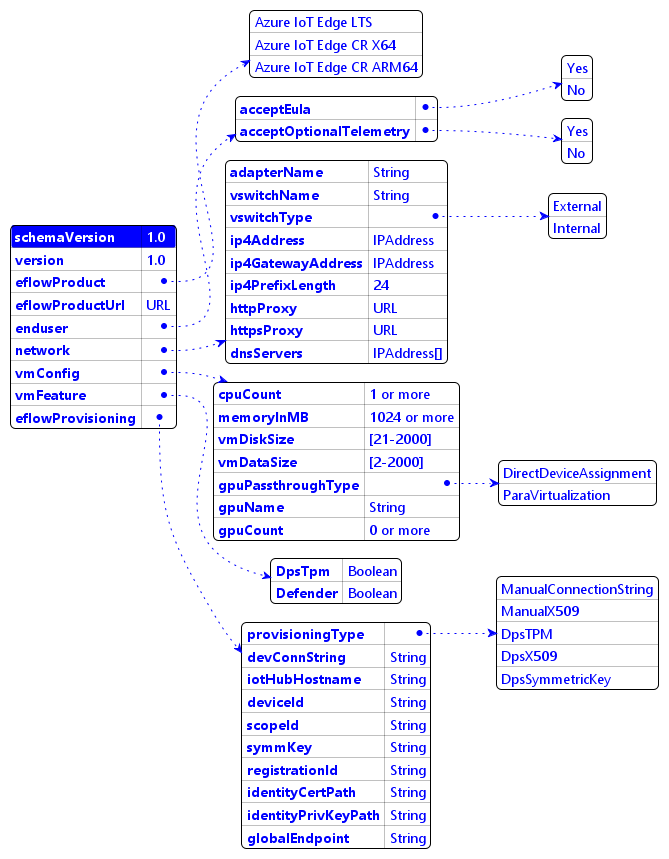
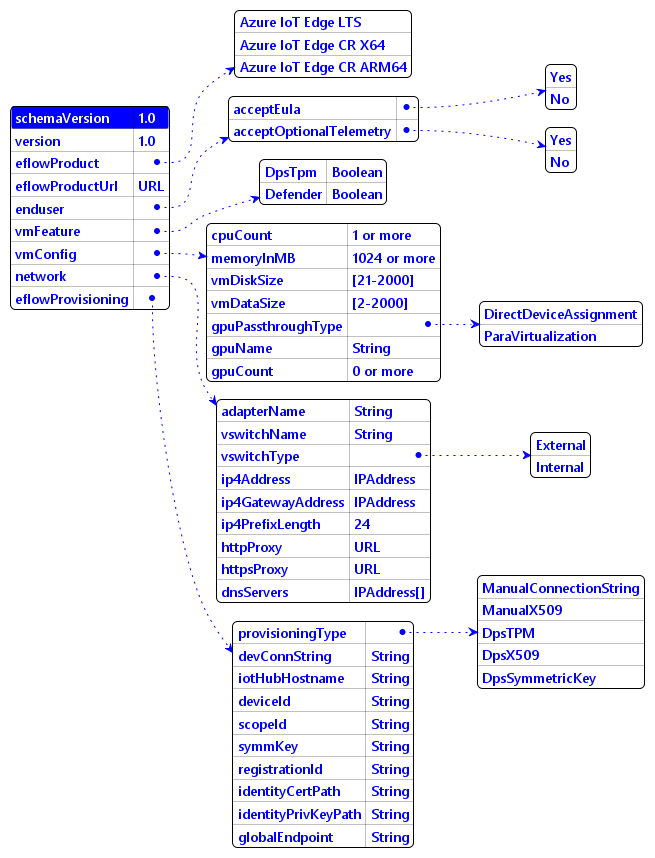
Load default config, doc updates

diff --git a/eflowautodeploy/README.md b/eflowautodeploy/README.md
@@ -33,36 +33,6 @@ Alternatively, you can *dot source* the script and invoke functions individually
 . .\eflowAutoDeploy.ps1
 Start-EflowDeployment 'C:\MyConfigs\eflow-userconfig.json'
 ```
-
-## Supported Functions
-
-| Config Functions |   Description |
-|:------------ |:-----------|
-|Get-EFLOWUserConfig| Returns the json object that is cached |
-|Set-EFLOWUserConfig| Sets the user config and reads the config into the cache |
-|Read-EFLOWUserConfig| Reads the json file into the cache |
-| **Test Functions** |  |
-|Test-EFLOWUserConfig| Tests the User Config json for parameter correctness |
-|Test-EFLOWUserConfigDeploy| Tests the deployment specific parameters |
-|Test-EFLOWUserConfigProvision| Tests the provisioning specific parameters|
-|Test-EFLOWUserConfigNetwork| Tests the network specific parameters|
-|**VM Switch Functions** ||
-|New-EFLOWVMSwitch| Creates an new VM switch based on user config. If Internal switch is specified, it also assigns a static ip address (no DHCP used) |
-|Test-EFLOWVMSwitch `-Create`| Tests if the VM switch is present, `-create` flag invokes New-EFLOWVMSwitch if switch is not present |
-|Remove-EFLOWVMSwitch| Removes the VM switch if present. Also removes the Nat if created (for internal switch) |
-|**Deployment functions**||
-|Invoke-EFLOWDeploy| Validates the deployment parameters in user json and deploys EFLOW VM|
-|Invoke-EFLOWProvision| Validates the provisioning parameters in user json and provisions EFLOW VM|
-|**Install functions**||
-|Get-EFLOWInstalledVersion| Returns the installed product name and version (comma separated) or Null if none found|
-|Invoke-EFLOWInstall| Installs the requested product from the eflowProductUrl if specified, otherwise it installs the latest (default)|
-|Test-EFLOWInstall `-Install`| Tests if EFLOW is installed and `-Install` switch is specified, it installs when not found|
-|Remove-EFLOWInstall| Removes the installed EFLOW product|
-|**Helper functions**||
-|Get-HostPCInfo| Gets the PC information such as OS version etc|
-|Test-AdminRole| Checks if the Powershell session is in Admin mode|
-|Test-HyperVStatus `-Install`| Checks if Hyper-V is installed and if `-Install` switch is specified, it installs Hyper-V feature. *Requires reboot*.|
-
 ## JSON schema
 
 The below table provides the details of the supported parameters in the json file. For more information about specific parameters, check [PowerShell functions for Azure IoT Edge for Linux on Windows](https://aka.ms/AzEFLOW-PowerShell).
@@ -72,11 +42,11 @@ The below table provides the details of the supported parameters in the json fil
 | schemaVersion | Mandatory | 1.0 | Fixed value, schema version. Reserved|
 | Version | Mandatory | 1.0 | Fixed value, json instance version. Reserved |
 | eflowProduct | Mandatory | <ul><li>Azure IoT Edge LTS</li><li>Azure IoT Edge CR X64</li><li>Azure IoT Edge CR ARM64</li></ul>| Supported EFLOW product versions |
-| eflowProductUrl | Optional | String (url) | Download Url to install specific  Eflow versions |
-| `enduser` | |  | End user configuration |
+| eflowProductUrl | Optional | String (url) | Download Url to install specific  Eflow versions. (Eg. https://aka.ms/AzEFLOW-1_1_2203_14042) |
+| *enduser* | |  | *End user configuration* |
 | acceptEula | Mandatory | Yes |  Accept Eula |
 | acceptOptionalTelemetry | Optional | Yes | Accept optional telemetry |
-| `network` | Optional | | **Network configuration optional for Client SKU**. Mandatory for Server SKU |
+| *network* | *Optional* | |*Network configuration optional for Client SKU. Mandatory for Server SKU*|
 | vswitchType | Mandatory | <ul><li>External</li><li>Internal</li></ul> | `Internal`  is supported for Server SKU only |
 | vswitchName | Mandatory | String | Switch name to use |
 | ip4Address | Optional | IPAddress |  Static IP Address for the EFLOW VM |
@@ -85,7 +55,7 @@ The below table provides the details of the supported parameters in the json fil
 | httpProxy | Optional | String | httpProxy link |
 | httpsProxy | Optional | String | httpsProxy link |
 | dnsServers | Optional | String[] | Array of valid dns servers for VM |
-| `vmConfig` | Optional|  | VM configuration |
+| *vmConfig* | *Optional*|  | *VM configuration* |
 | cpuCount | Optional |0 | cpuCount|
 | memoryInMB | Optional |0| memoryInMB|
 | vmDiskSize | Optional |21-2000| Size in GB|
@@ -93,10 +63,10 @@ The below table provides the details of the supported parameters in the json fil
 | gpuPassthroughType | Optional |<ul><li>DirectDeviceAssignment</li><li>ParaVirtualization</li></ul>| gpuPassthroughType|
 | gpuName | Optional |String| gpuName|
 | gpuCount | Optional |0| gpuCount|
-| `vmFeature` | Optional|  | Features  |
+| *vmFeature* | *Optional*|  | *Features*  |
 | DpsTpm| Optional |Boolean| Enable TPM for DPS|
 | Defender| Optional |Boolean| Enable Defender feature in VM|
-| `eflowProvisioning` | Optional|  | Provisioning configurations  |
+| *eflowProvisioning* | *Optional*|  | *Provisioning configurations*  |
 | provisioningType| Optional |<ul><li>ManualConnectionString</li><li>ManualX509</li><li>DpsTPM</li><li>DpsX509</li><li>DpsSymmetricKey</li></ul>| Supported provisioning types|
 | devConnString| Optional |String| Mandatory for *ManualConnectionString*|
 | iotHubHostname| Optional |String| Mandatory for *ManualX509*|
@@ -110,3 +80,34 @@ The below table provides the details of the supported parameters in the json fil
 
 ## JSON schema visualization
 ![eflowAutoDeploy json](eflowAutoDeploy.png)
+
+## Supported Functions
+
+| Functions |   Description |
+|:------------ |:-----------|
+|`Start-EflowDeployment`| Main funtion that validates the user config, installs eflow, creates switch, deploys and provisions VM |
+| **Config Functions** |  |
+|`Get-EFLOWUserConfig`| Returns the json object that is cached |
+|`Set-EFLOWUserConfig`| Sets the user config and reads the config into the cache |
+|`Read-EFLOWUserConfig`| Reads the json file into the cache |
+| **Test Functions** |  |
+|`Test-EFLOWUserConfig`| Tests the User Config json for parameter correctness |
+|`Test-EFLOWUserConfigDeploy`| Tests the deployment specific parameters |
+|`Test-EFLOWUserConfigProvision`| Tests the provisioning specific parameters|
+|`Test-EFLOWUserConfigNetwork`| Tests the network specific parameters|
+|**VM Switch Functions** ||
+|`New-EFLOWVMSwitch`| Creates an new VM switch based on user config. If Internal switch is specified, it also assigns a static ip address (no DHCP used) |
+|`Test-EFLOWVMSwitch -Create`| Tests if the VM switch is present, `Create` flag invokes New-EFLOWVMSwitch if switch is not present |
+|`Remove-EFLOWVMSwitch`| Removes the VM switch if present. Also removes the Nat if created (for internal switch) |
+|**Deployment functions**||
+|`Invoke-EFLOWDeploy`| Validates the deployment parameters in user json and deploys EFLOW VM|
+|`Invoke-EFLOWProvision`| Validates the provisioning parameters in user json and provisions EFLOW VM|
+|**Install functions**||
+|`Get-EFLOWInstalledVersion`| Returns the installed product name and version (comma separated) or Null if none found|
+|`Invoke-EFLOWInstall`| Installs the requested product from the eflowProductUrl if specified, otherwise it installs the latest (default)|
+|`Test-EFLOWInstall -Install`| Tests if EFLOW is installed and `Install` switch is specified, it installs when not found|
+|`Remove-EFLOWInstall`| Removes the installed EFLOW product|
+|**Helper functions**||
+|`Get-HostPCInfo`| Gets the PC information such as OS version etc|
+|`Test-AdminRole`| Checks if the Powershell session is in Admin mode|
+|`Test-HyperVStatus -Install`| Checks if Hyper-V is installed and if `Install` switch is specified, it installs Hyper-V feature. *Requires reboot*.|
